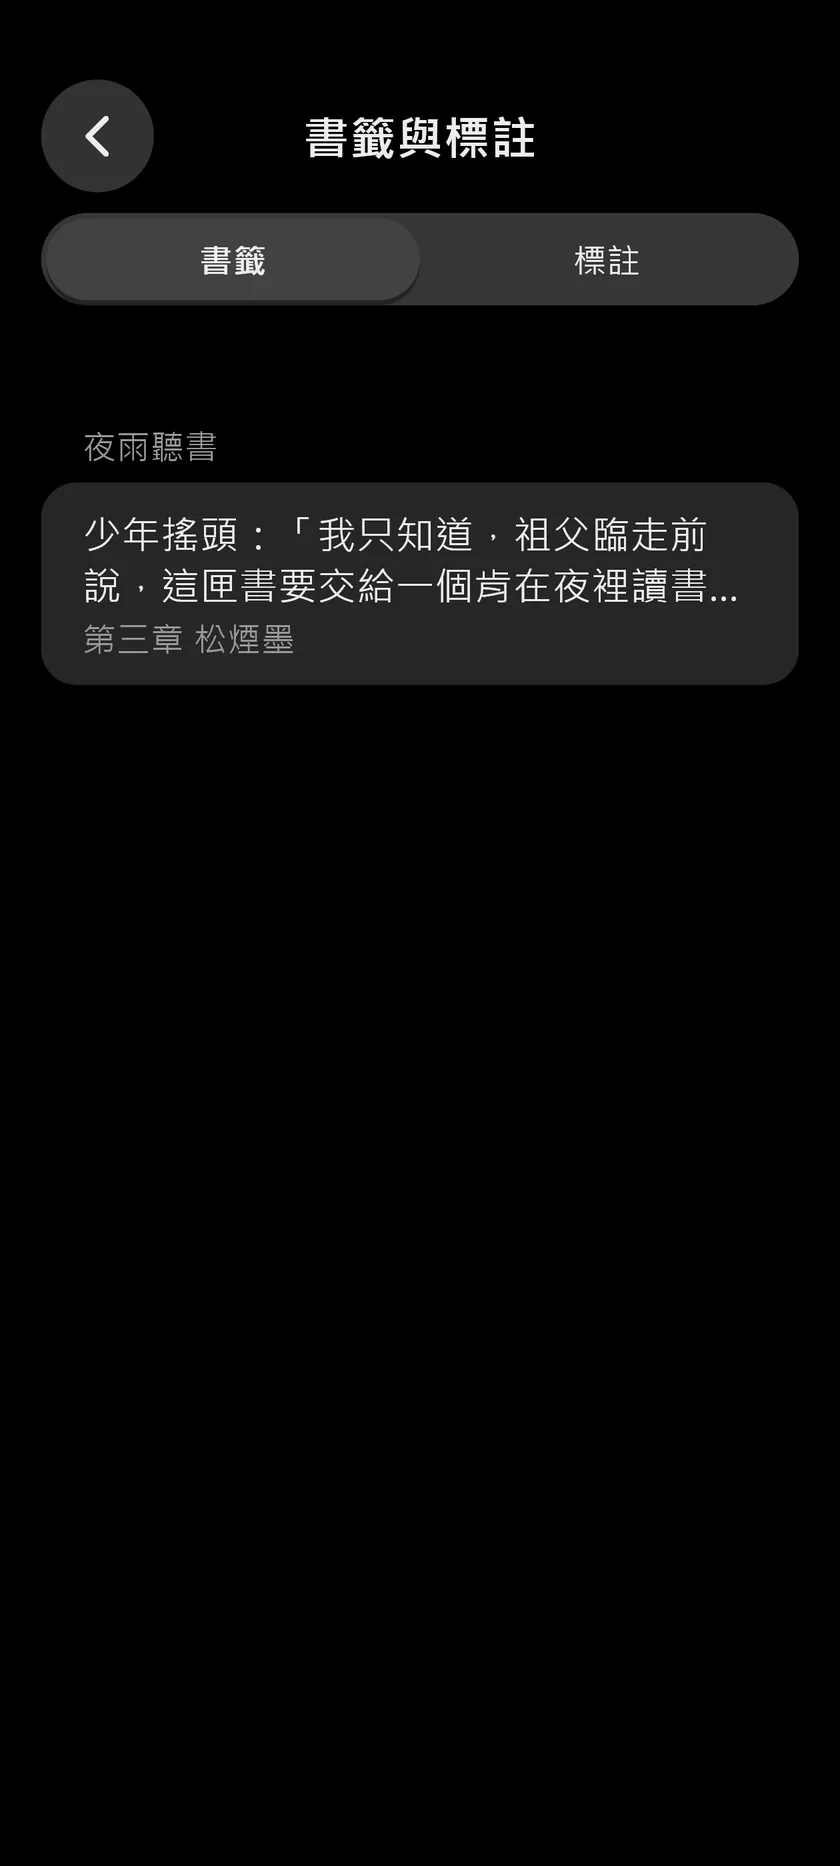
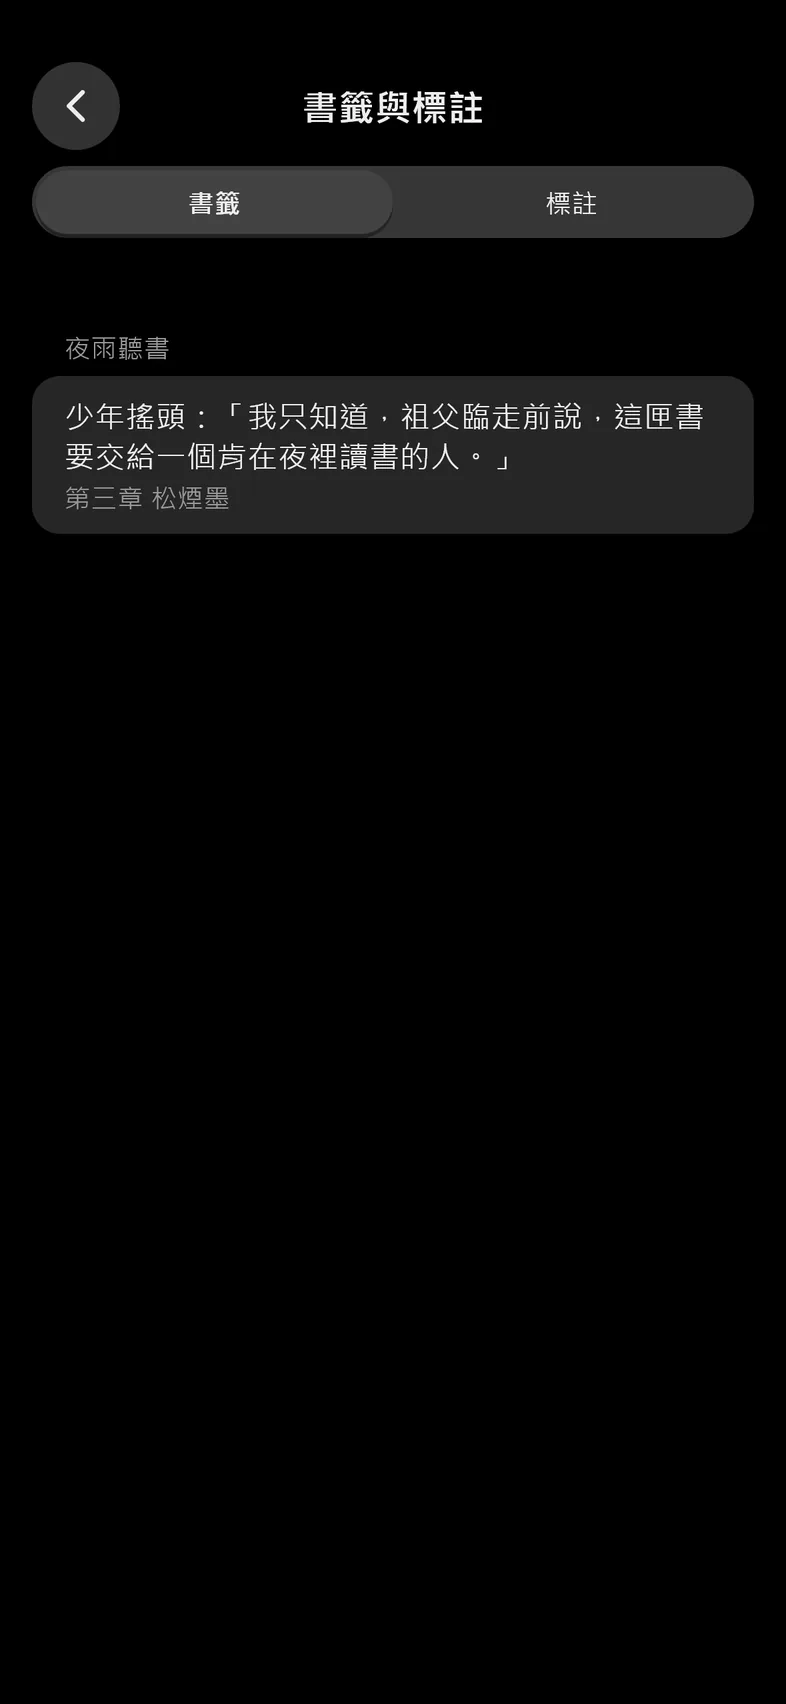
prototype(website): 開頭改成超級黃昏，截圖改成 iPhone 大小的 Android 手機
使用者說開頭太亮，要從最濃的晚霞捲到深夜：Codex 以夜空為參考產生
新的黃昏天空（地平線橘紅、往上紫到靛藍）。兩頭都夠暗，字從頭到尾用
月光色，拿掉中段的字色切換，天色改成在 5%–85% 慢慢換；山的剪影從帶紫
的暗紅換成墨藍。

使用者說 1260×2800 太長，要和一般 iPhone 一樣大但不是 iPhone（App 沒對
iPhone 優化）：截圖改成 393×852、3 倍，頂端是 Android 鏡頭挖孔那一條
（27），網頁手機框改回 1179×2556、上緣是挖孔不是動態島。排版那張改點
右邊留白叫選單，額頭高度一變正中間就會落在標註上。

Release-Notes: none

Changed region(s): [[0.0305, 0.0311, 0.9771, 0.3732]]

diff --git a/website/proto/site.css b/website/proto/site.css
@@ -1,40 +1,28 @@
 /* 夜讀網站原型。
-   背景固定在視窗後面不位移，往下捲時天色從黃昏換成夜裡（深色一開始就是夜，
-   捲到底暗成純黑）；圖是 Codex 生成的（sky/）。內容直接放在天色上，不墊玻璃：
-   天色在頁面中段很快換過去，字色在同一點從墨色切成月光色。
-   配色照 App 的預設風格（淺色牛皮紙、深色純黑），截圖照維護者手機的比例。 */
+   背景固定在視窗後面不位移，往下捲時天色從最濃的晚霞慢慢換成深夜（深色模式
+   一開始就是夜，捲到底暗成純黑）；圖是 Codex 生成的（sky/）。內容直接放在
+   天色上，不墊玻璃；兩頭的天色都夠暗，字從頭到尾都是月光色。
+   截圖是 App 的預設風格（淺色牛皮紙、深色純黑），手機框是一般 iPhone 的比例。 */
 
 :root {
-  /* 白天的字（黃昏）。 */
-  --text: #17120c;
-  --muted: #5d5444;
-  --primary: #7e2e2a;
-  --on-primary: #fffbf2;
-  --bar: rgba(247, 238, 220, 0.78);
-  --chip: rgba(23, 18, 12, 0.08);
-  --moon: #f4e3b5;
-  /* 山：黃昏時是淡紙色，夜裡是暗色剪影；--n 是夜的程度（0 黃昏、1 夜）。 */
-  --hill-far-day: #e8d9bb;
-  --hill-far-night: #1b262d;
-  --hill-near-day: #f6eedc;
-  --hill-near-night: #0a0e11;
-  --raised: #efe5cf;
-  --bezel: #16130f;
-  --shot-shadow: 0 18px 50px rgba(38, 30, 18, 0.24);
-  --n: 0;
-  --deep: 0;
-  color-scheme: light;
-}
-
-/* 夜裡的字（月光色）。深色模式一直是這組。 */
-:root[data-ink="night"] {
   --text: #f1e9d6;
-  --muted: rgba(241, 233, 214, 0.72);
+  --muted: rgba(241, 233, 214, 0.74);
   --primary: #f4e3b5;
   --on-primary: #1a1612;
-  --bar: rgba(8, 11, 13, 0.6);
+  --bar: rgba(10, 9, 14, 0.55);
   --chip: rgba(255, 255, 255, 0.1);
-  --shot-shadow: 0 18px 50px rgba(0, 0, 0, 0.55);
+  --moon: #f4e3b5;
+  /* 山的剪影：晚霞時帶紫的暗紅，夜裡是墨藍；--n 是夜的程度（0 晚霞、1 夜）。 */
+  --hill-far-day: #4a2838;
+  --hill-far-night: #1b262d;
+  --hill-near-day: #1e1018;
+  --hill-near-night: #0a0e11;
+  --raised: #efe5cf;
+  --bezel: #121014;
+  --shot-shadow: 0 18px 50px rgba(0, 0, 0, 0.5);
+  --n: 0;
+  --deep: 0;
+  color-scheme: dark;
 }
 
 @media (prefers-color-scheme: dark) {
@@ -54,8 +42,6 @@ body {
   line-height: 1.75;
   -webkit-font-smoothing: antialiased;
 }
-/* 字色換組時淡過去，不要一下子跳。 */
-body, body * { transition: color 0.3s linear, background-color 0.3s linear; }
 
 a { color: inherit; }
 img { display: block; max-width: 100%; }
@@ -129,26 +115,27 @@ img { display: block; max-width: 100%; }
 .feature h2 { font-size: 30px; line-height: 1.35; margin: 0 0 16px; font-weight: 700; letter-spacing: 0.02em; }
 .feature p { color: var(--muted); margin: 0; max-width: 24em; }
 
-/* 手機框照維護者的手機：1260×2800，螢幕圓角約寬度的 7%，上緣正中一個鏡頭挖孔。 */
+/* 手機框是和一般 iPhone 一樣大的 Android 手機（1179×2556），上緣正中一個
+   鏡頭挖孔；螢幕圓角約寬度的 8%。 */
 .shots { position: relative; display: flex; justify-content: center; }
 .phone {
   position: relative;
-  width: 250px;
-  aspect-ratio: 1260 / 2800;
-  padding: 6px;
-  border-radius: 24px;
+  width: 260px;
+  aspect-ratio: 1179 / 2556;
+  padding: 7px;
+  border-radius: 27px;
   background: var(--bezel);
   box-shadow: var(--shot-shadow);
 }
-.phone .screen { position: relative; width: 100%; height: 100%; overflow: hidden; border-radius: 18px; background: var(--raised); }
+.phone .screen { position: relative; width: 100%; height: 100%; overflow: hidden; border-radius: 20px; background: var(--raised); }
 .phone .screen picture, .phone .screen img { position: absolute; inset: 0; width: 100%; height: 100%; object-fit: cover; }
 .phone .screen::after {
-  content: ""; position: absolute; z-index: 1; left: 50%; top: 1.45%;
-  width: 3.2%; aspect-ratio: 1; border-radius: 50%; transform: translateX(-50%);
+  content: ""; position: absolute; z-index: 1; left: 50%; top: 1.1%;
+  width: 3.4%; aspect-ratio: 1; border-radius: 50%; transform: translateX(-50%);
   background: #050505;
 }
 /* 第二張疊在後面、略小，露出一角。 */
-.shots .phone + .phone { position: absolute; width: 210px; transform: translate(-46%, 10%); z-index: -1; opacity: 0.92; }
+.shots .phone + .phone { position: absolute; width: 220px; transform: translate(-46%, 10%); z-index: -1; opacity: 0.92; }
 .shots.pair { padding-left: 90px; }
 
 .stack > picture { opacity: 0; transition: opacity 0.4s linear; }
@@ -233,5 +220,5 @@ footer p { max-width: 40em; margin: 0 auto 8px; }
 }
 
 @media (prefers-reduced-motion: reduce) {
-  body, body *, .stack > picture, .dock { transition: none; }
+  .stack > picture, .dock { transition: none; }
 }

diff --git a/test/screens/website_shots_test.dart b/test/screens/website_shots_test.dart
@@ -55,8 +55,12 @@ final _scenes = <String, Steps>{
   'reader': (t) async => openReader(t),
   'layout': (t) async {
     await openReader(t);
-    // 維護者手機的版面上，畫面正中間是沒有標註的正文（點到標註會開標註面板）。
-    await showReaderMenu(t);
+    // 點右邊留白叫出選單：那裡沒有字，不會點到標註（點到會開標註面板），
+    // 九宮格的每一格預設都是叫出選單。
+    final size = t.view.physicalSize / t.view.devicePixelRatio;
+    await t.tapAt(Offset(size.width - 4, size.height / 2));
+    await settle(t, const Duration(milliseconds: 800));
+    await waitForText(t);
     await _tapText(t, '排版');
   },
   'search': _searchResults,
@@ -231,17 +235,12 @@ Future<void> _seedShowcase() async {
   ]);
 }
 
-/// 維護者的手機：1260×2800、每個邏輯像素 3.85 個實體像素，閱讀器畫面
-/// 327.27×727.27；鏡頭那一條（隱藏狀態列時頁首所在）高 27。數字取自
-/// 2026-11-06 備份裡閱讀器記下的版面（寬 327.27、正文區高 676.26，扣掉
-/// 頁尾 20 與下邊距 4）。
-void _setUpOwnerPhone(WidgetTester tester) {
-  const ratio = 3.85;
-  setUpScreenshot(
-    tester,
-    size: const Size(1260 / ratio, 2800 / ratio),
-    devicePixelRatio: ratio,
-  );
+/// 和一般 iPhone 一樣大（393×852、3 倍，1179×2556）的 Android 手機：頂端是
+/// 鏡頭挖孔那一條，高 27（照維護者的手機；隱藏狀態列時頁首在這一條裡），
+/// 底部手勢條 16。
+void _setUpPhone(WidgetTester tester) {
+  const ratio = 3.0;
+  setUpScreenshot(tester, size: const Size(393, 852), devicePixelRatio: ratio);
   const padding = FakeViewPadding(top: 27 * ratio, bottom: 16 * ratio);
   tester.view.padding = padding;
   tester.view.viewPadding = padding;
@@ -254,7 +253,7 @@ void main() {
   final only = Platform.environment['SHOT_ONLY']?.split(',');
 
   testWidgets('website shots', (tester) async {
-    _setUpOwnerPhone(tester);
+    _setUpPhone(tester);
     await tester.runAsync(() async {
       await setUpApp();
       await seedLibrary();

diff --git a/website/proto/site.js b/website/proto/site.js
@@ -11,17 +11,16 @@ function isDark() {
   return darkScheme.matches;
 }
 
-// 淺色：前段黃昏、後段夜裡，天色只在捲到 38%–62% 這段換過去，中間調不會停留
-// 太久；字色在一半的地方切換。深色：一開始就是夜，捲到底再暗成接近純黑。
+// 淺色：從最濃的晚霞開始，捲到 5%–85% 這段慢慢入夜，之後停在深夜。
+// 深色：一開始就是夜，捲到底再暗成接近純黑。
 function frame() {
   const max = root.scrollHeight - innerHeight;
   const p = Math.min(1, Math.max(0, scrollY / Math.max(1, max)));
   const dark = isDark();
-  const t = Math.min(1, Math.max(0, (p - 0.38) / 0.24));
+  const t = Math.min(1, Math.max(0, (p - 0.05) / 0.8));
   const night = dark ? 1 : t * t * (3 - 2 * t);
   root.style.setProperty('--n', night.toFixed(4));
   root.style.setProperty('--deep', dark ? p.toFixed(4) : '0');
-  root.dataset.ink = night >= 0.5 ? 'night' : 'day';
   dock?.classList.toggle('show', scrollY > hero.offsetHeight * 0.8);
 }
 

diff --git a/HANDOFF.md b/HANDOFF.md
@@ -4,9 +4,9 @@
 
 談定的：給路過的人看的短頁；照 App 的設計語言；用 App 真的截圖（`test/screens/website_shots_test.dart`，照 App 預設拍，風格與深淺用 `SHOT_STYLE`、`SHOT_MODE`）；功能一段一段左右交錯；README 縮成短頁加幾條功能、指向網站；背景用 Codex 產生的圖（`website/proto/sky/`），捲動時要動。否決過：自己畫的 SVG 夜空、a／b／c 三種版型裡的上下與橫條。
 
-背景選定乙、去掉大片玻璃（2026-11-06）：背景固定不位移，往下捲只換天色。淺色前段黃昏、38%–62% 換成夜空、一半的地方字從墨色換成月光色；深色一開始就是夜，捲到底暗成接近純黑。山用圖當遮罩，顏色跟著入夜從淡紙色換成剪影。否決：甲（開頭夜空視差）、內容墊玻璃。頁面是 `website/proto/index.html`，由 `features.html`（共用的五段）加開頭與頁尾組成。
+背景選定乙、去掉大片玻璃（2026-11-06）：背景固定不位移，往下捲只換天色。淺色從「超級黃昏」（Codex 產的濃烈晚霞，地平線橘紅、往上紫到靛藍）在 5%–85% 慢慢入夜；深色一開始就是夜，捲到底暗成接近純黑。兩頭都夠暗，字從頭到尾是月光色。山用圖當遮罩，顏色跟著入夜從帶紫的暗紅換成墨藍剪影；月亮入夜才出來、位置不動。否決：甲（開頭夜空視差）、內容墊玻璃、淡米色的黃昏（太亮）。頁面是 `website/proto/index.html`，由 `features.html`（共用的五段）加開頭與頁尾組成。
 
-截圖照維護者手機：1260×2800、3.85 倍，閱讀器畫面 327.27×727.27，鏡頭那一條 27（從備份裡閱讀器記下的版面推算）；網頁手機框同比例、螢幕圓角約寬度 7%、上緣有鏡頭挖孔。使用者 2026-11-06 回饋過的：手機圓角太圓、字離邊框太近、頁首沒有額頭，都是截圖用了 393 寬的 iPhone 尺寸造成的，參數本身和使用者的設定一致。
+截圖與手機框：和一般 iPhone 一樣大（393×852、3 倍）的 Android 手機，頂端鏡頭挖孔那一條高 27（照維護者的手機），不畫動態島（App 沒對 iPhone 優化）；螢幕圓角約寬度 8%。否決：照維護者手機 1260×2800（太長）。排版那張點右邊留白叫選單，版面怎麼變都不會點到標註。
 
 等使用者看過這一版（儀表板 2026-11-06）。本機預覽要開 http 伺服器（`website/` 底下 `python -m http.server`），用 file:// 開時山的遮罩讀不到。
 
